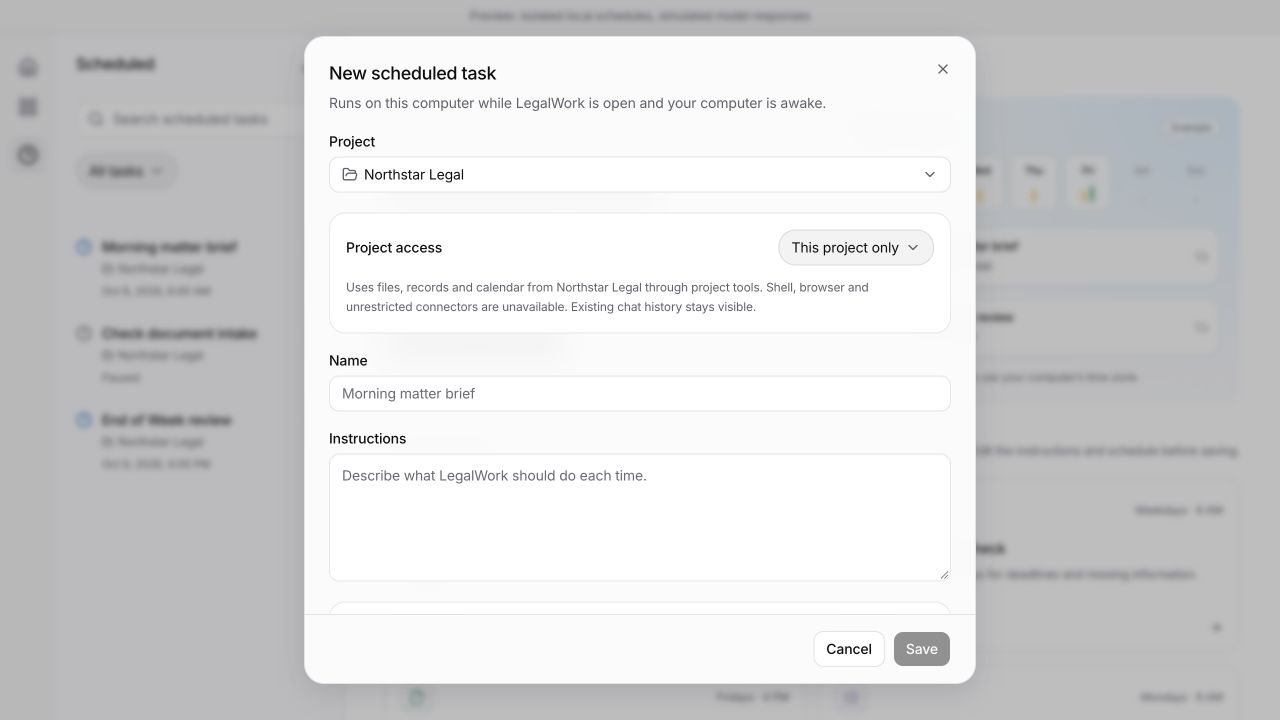
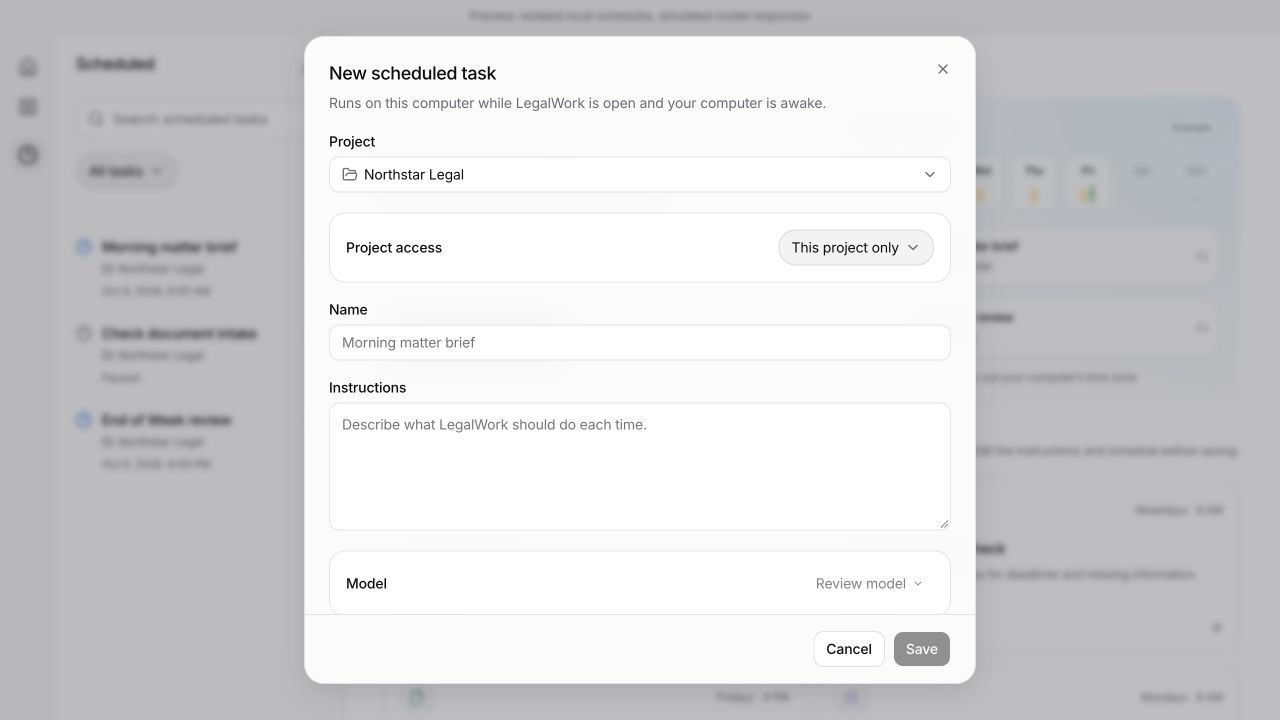
Simplify scheduled task project access settings

diff --git a/apps/app/src/react-app/domains/scheduled-tasks/scheduled-task-dialog.tsx b/apps/app/src/react-app/domains/scheduled-tasks/scheduled-task-dialog.tsx
@@ -121,9 +121,8 @@ export function ScheduledTaskEditor({ client, projects, task, initial, defaultMo
               </PopoverContent>
             </Popover>
           </div>}
-          <Surface className="space-y-3 p-4">
-            <div className="flex flex-wrap items-center justify-between gap-3"><Label>{t("scheduled.project_access")}</Label><ScheduleSelect label={t("scheduled.project_access")} value={projectAccess} options={[{ value: "project", label: t("scheduled.access_project") }, { value: "all", label: t("scheduled.access_all") }]} onChange={value => setProjectAccess(value === "all" ? "all" : "project")} /></div>
-            <p className="text-xs leading-relaxed text-muted-foreground">{t(projectAccess === "project" ? "scheduled.access_project_hint" : "scheduled.access_all_hint", { project: projects.find(project => project.id === workspaceId)?.name ?? t("scheduled.project") })}</p>
+          <Surface className="flex flex-wrap items-center justify-between gap-3 p-4">
+            <Label>{t("scheduled.project_access")}</Label><ScheduleSelect label={t("scheduled.project_access")} value={projectAccess} options={[{ value: "project", label: t("scheduled.access_project") }, { value: "all", label: t("scheduled.access_all") }]} onChange={value => setProjectAccess(value === "all" ? "all" : "project")} />
           </Surface>
           <div className="space-y-2"><Label htmlFor={`${id}-title`}>{t("scheduled.name")}</Label><Input autoFocus={Boolean(task)} id={`${id}-title`} value={title} maxLength={160} onChange={event => setTitle(event.target.value)} placeholder={t("scheduled.name_placeholder")} required /></div>
           <div className="space-y-2"><Label htmlFor={`${id}-prompt`}>{t("scheduled.instructions")}</Label><Textarea id={`${id}-prompt`} className="min-h-32 max-h-64 resize-y leading-relaxed" value={prompt} maxLength={30000} onChange={event => setPrompt(event.target.value)} placeholder={t("scheduled.prompt_placeholder")} required /></div>

diff --git a/apps/app/src/i18n/locales/de.ts b/apps/app/src/i18n/locales/de.ts
@@ -24,8 +24,6 @@ const de = {
   "scheduled.project_access": "Projektzugriff",
   "scheduled.access_project": "Nur dieses Projekt",
   "scheduled.access_all": "Alle Projekte",
-  "scheduled.access_project_hint": "Nutzt Dateien, Einträge und Kalender von {project} über Projektwerkzeuge. Shell, Browser und unbeschränkte Integrationen sind nicht verfügbar. Der bisherige Chatverlauf bleibt sichtbar.",
-  "scheduled.access_all_hint": "Kann auf alle freigegebenen lokalen Projekte zugreifen. Ihre bestehenden Werkzeugberechtigungen und Freigaben gelten weiterhin.",
   "scheduled.title": "Geplant",
   "scheduled.new": "Neue geplante Aufgabe",
   "scheduled.edit": "Aufgabe bearbeiten",

diff --git a/apps/app/src/i18n/locales/en.ts b/apps/app/src/i18n/locales/en.ts
@@ -14,8 +14,6 @@ export default {
   "scheduled.project_access": "Project access",
   "scheduled.access_project": "This project only",
   "scheduled.access_all": "All projects",
-  "scheduled.access_project_hint": "Uses files, records and calendar from {project} through project tools. Shell, browser and unrestricted connectors are unavailable. Existing chat history stays visible.",
-  "scheduled.access_all_hint": "Can access all authorized local projects using your existing tool permissions and approvals.",
   "scheduled.title": "Scheduled",
   "scheduled.new": "New scheduled task",
   "scheduled.edit": "Edit task",

diff --git a/docs/reviews/scheduled-tasks/README.md b/docs/reviews/scheduled-tasks/README.md
@@ -122,6 +122,8 @@ An intentional stop now leaves the chat idle instead of setting a persistent red
 
 Verified both editors visually against the isolated fixture. App typecheck and production build passed. All 871 local app tests passed, including late abort ordering, retained transcript, idle status, paused queues and preservation of genuine errors. One unrelated archived-session command test failed on the first full run; it passed both in isolation and on the complete rerun.
 
+Project access is now a compact label-and-selector row in both editors. Removed the technical explanatory text and its unused English/German translations. Verified creation and inline editing visually; app typecheck, `pnpm --filter @legalwork/app test:i18n` (5,554 keys), `node scripts/i18n-audit.mjs --ci` and `git diff --check` passed.
+
 ## Screenshots
 
 ![Project access visible in creation](create-visible-scope.png)
